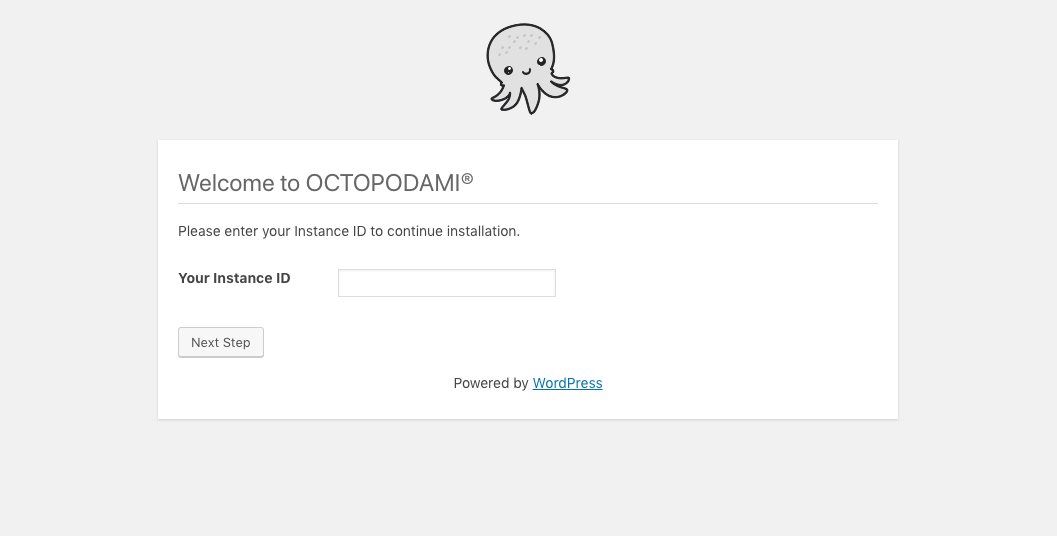
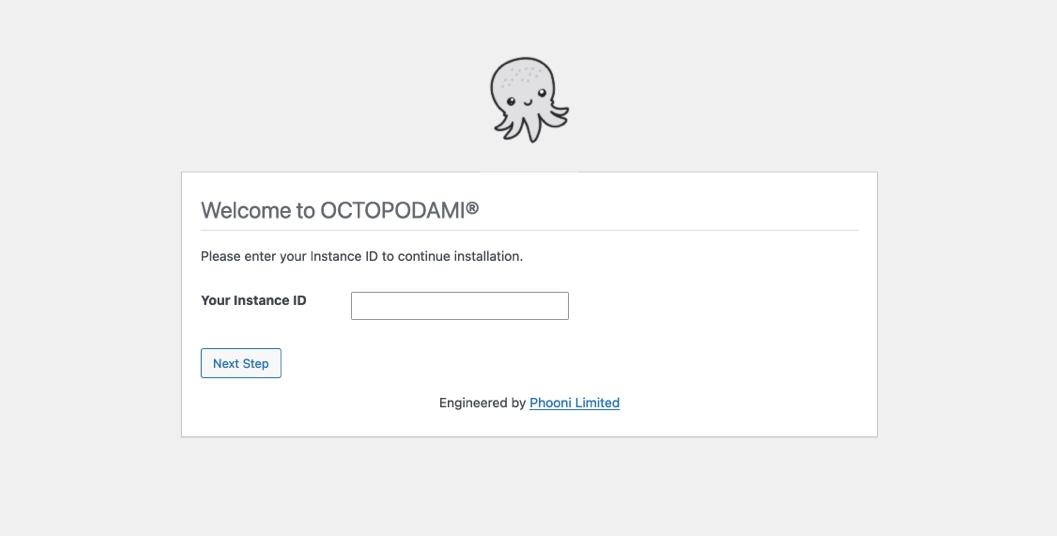
fixes

diff --git a/setup.md b/setup.md
@@ -13,7 +13,7 @@ You need to create a unique EC2 Key Pair so you can log into your EC2 instance e
 
 ## Launch Instance
 
-Within the EC2 Dashboard page, you can do the following to launch an Octopodami Optimized WordPress (OOW) instance:
+Within the EC2 Dashboard page, you can do the following to launch a WordPress Engineered by OCTOPODAMI (WEBO) instance:
 
 1. Click the **Launch Instance** button or click this button [![Launch Stack](./images/launch-stack.png?raw=true)](https://aws.amazon.com/marketplace/pp/VM-Native-Inc-Octopodami-Optimized-WordPress/B07L9KGRBC)
 2. Next, click **AWS Marketplace** tab on the left side of the **Choose an Amazon Machine Image (AMI)** page
@@ -60,14 +60,14 @@ To SSH into your EC2 instance:
 
 [![asciicast](https://asciinema.org/a/P5yUSD5AKcEPSoaerMDPA54Hn.svg)](https://asciinema.org/a/P5yUSD5AKcEPSoaerMDPA54Hn)
 
-4. Bam!!! Have fun. Don't break anything, but if you do. Support is available [here](https://www.cloudeya.ml/oow/).
+4. Bam!!! Have fun. Don't break anything, but if you do. Support is available [here](https://www.phooni.com/oow/).
 
 ## Links
 
-1. [Product Website](https://www.cloudeya.ml/oow/)
+1. [Product Website](https://www.phooni.com/oow/)
 2. [EULA](./octopodamiEULA.txt)
-3. [Knowledgebase](https://github.com/cloudeya/octopodami-optimized-wordpress/-/wikis/home)
-4. [Issue Tracking](https://github.com/cloudeya/octopodami-optimized-wordpress/-/issues)
+3. [Knowledgebase](https://github.com/phooni/wordpress-engineered-by-octopodami/-/wikis/home)
+4. [Issue Tracking](https://github.com/phooni/wordpress-engineered-by-octopodami/-/issues)
 
 ## Support
 
